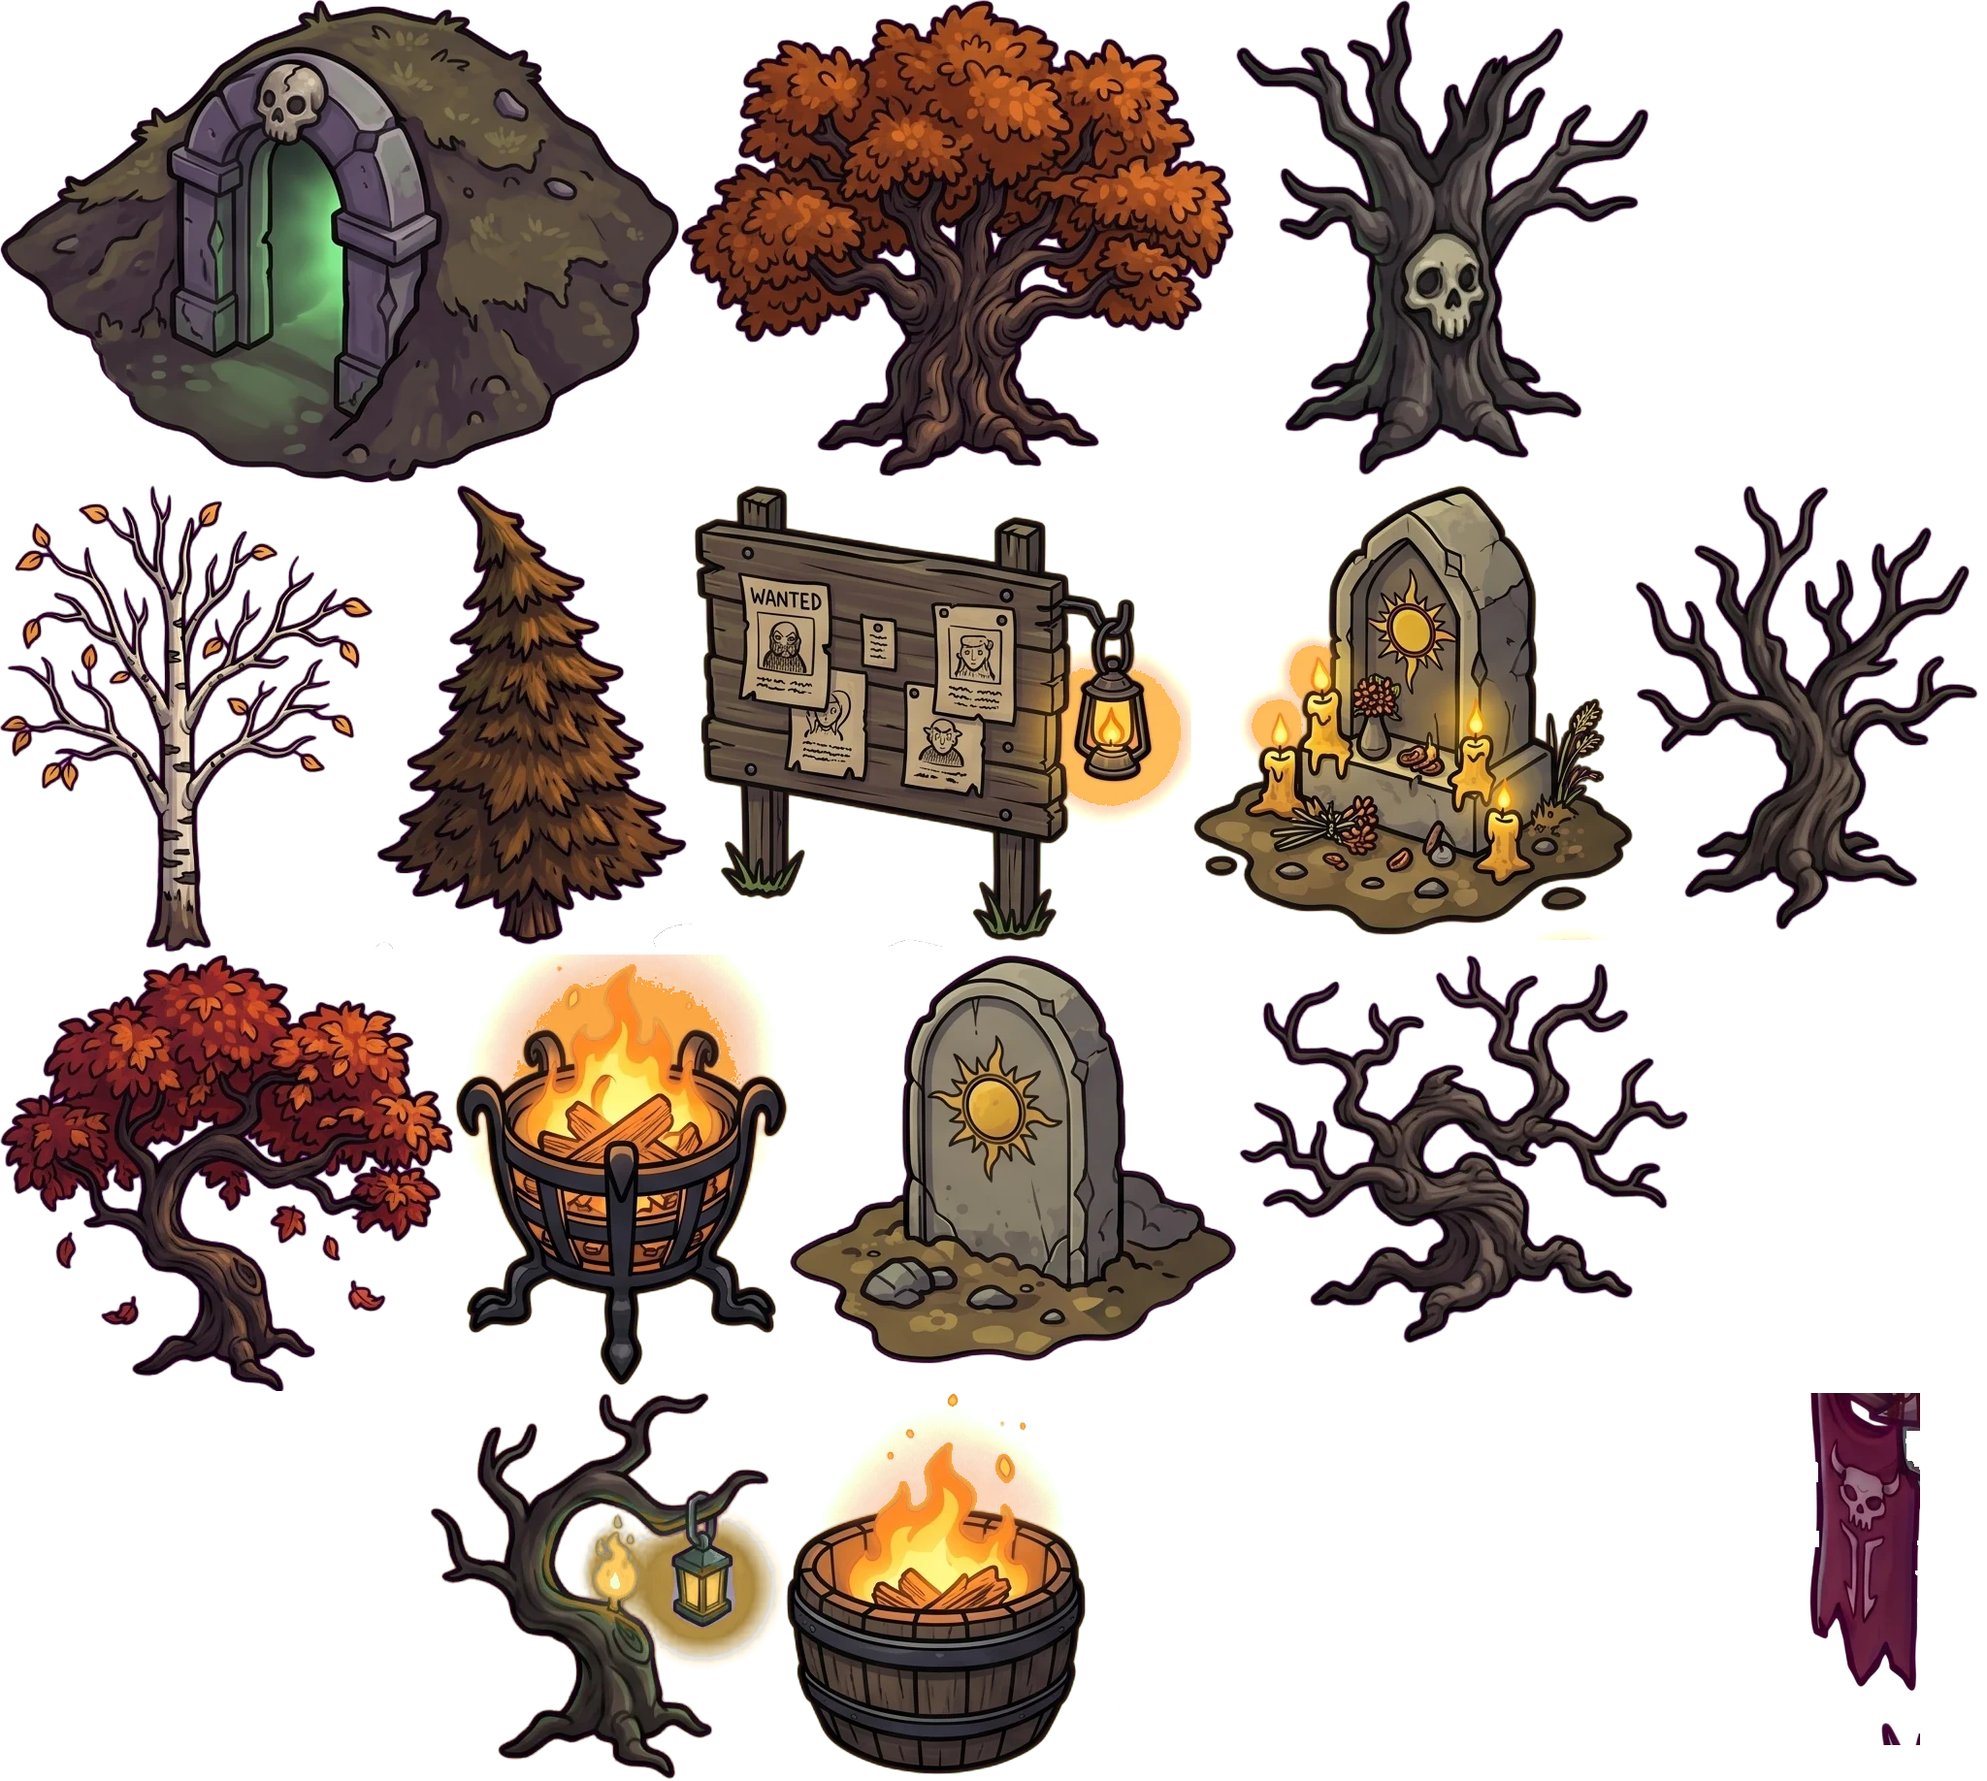
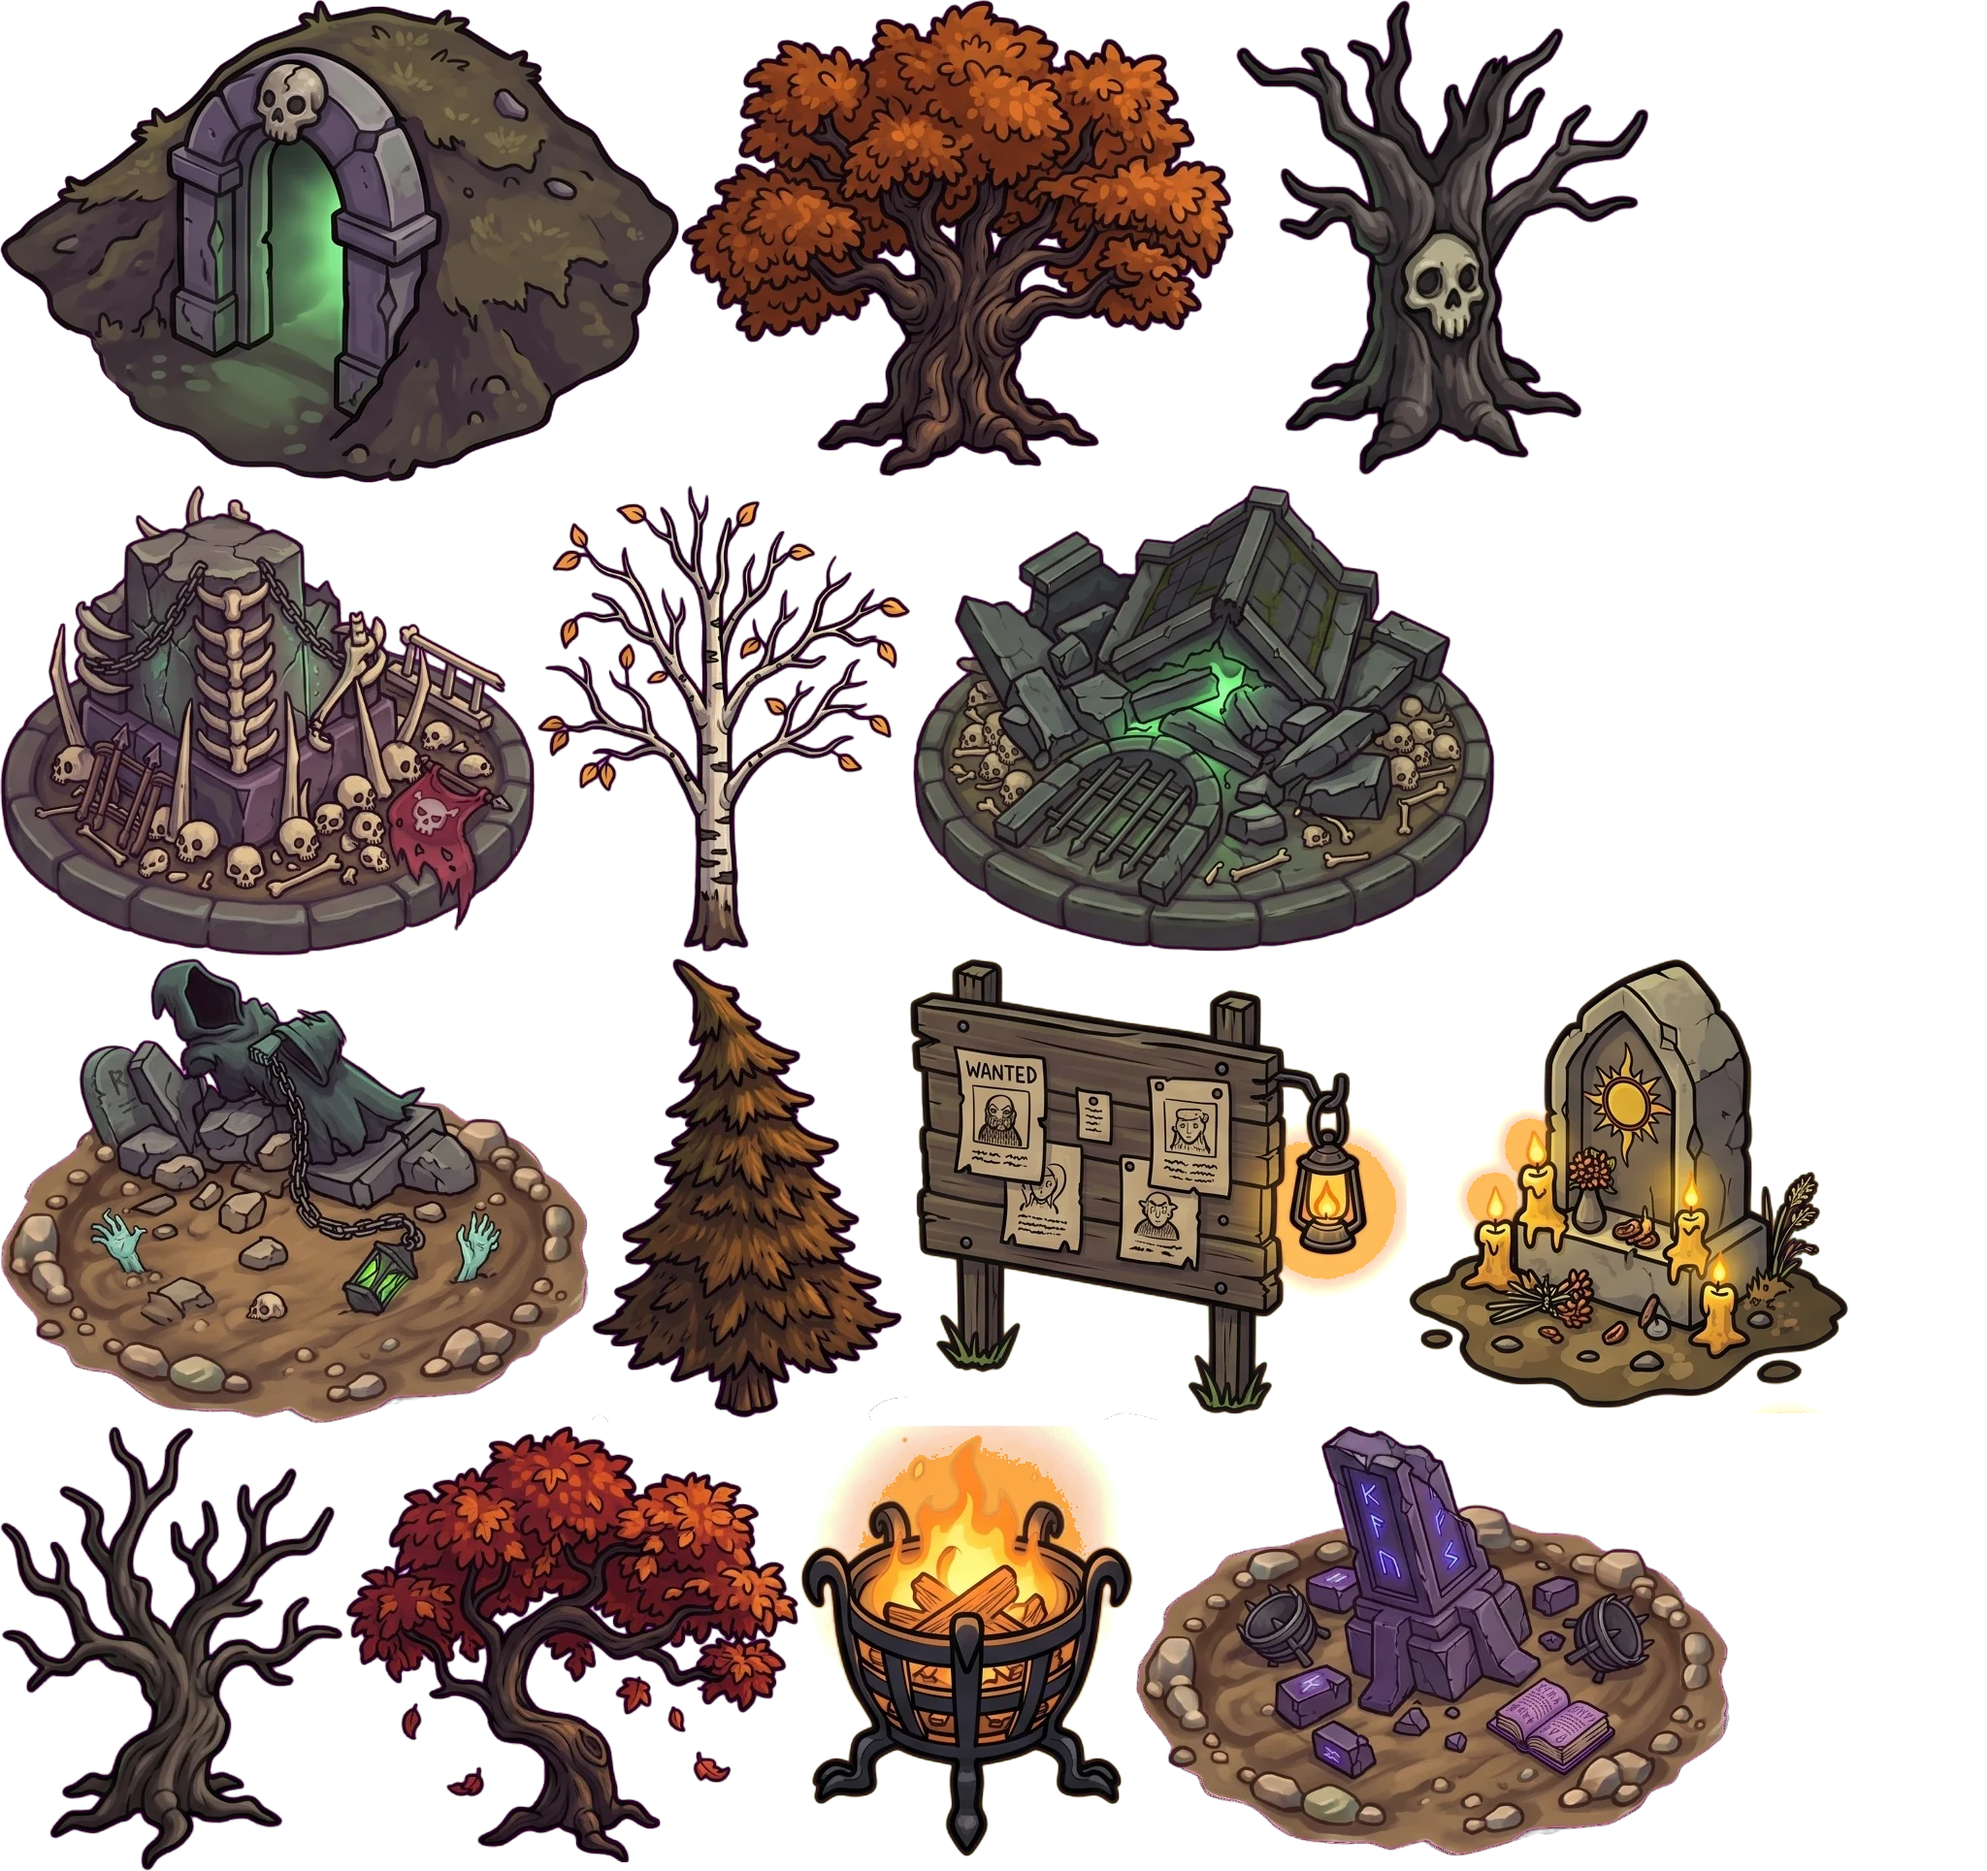
Yıkılan kulelerin molozu kendi çizimiyle (nm6_rubble_*: Kemik Kulesi, Mahzen, Ruh Feneri x2, Veba Kazanı, Lanet Kulesi); temizlenirken solup çöker (yayın 587)

diff --git a/sinir-kalesi/js/game.js b/sinir-kalesi/js/game.js
@@ -3860,8 +3860,22 @@ function clearRubble(pl) {
   if (!pl.rubble || pl.rubble.clearT > 0 || G.gold < RUBBLE.cost) return false;
   G.gold -= RUBBLE.cost; pl.rubble.clearT = RUBBLE.time; sfx('build'); return true;
 }
+// 15 Eki: kulenin kendi molozu (Gemini nm6_kule_moloz.jpg, kule türüne göre; Ruh Fenerinin iki çeşidi). Arsanın üstünü örter, temizlenirken solup çöker.
+const RUBBLE_IMG = { w: 90, anchor: 0.6 };
 function drawRubble(pl) { // moloz: taş blokları ve kemikler; temizlenirken azalır, üstünde ilerleme halkası
   const R = pl.rubble, cl = R.clearT > 0 ? R.clearT / RUBBLE.time : 1; let sd = Math.floor(R.seed * 99991) + 7;
+  const rim = spr('nm6_rubble_' + (R.type === 'mage' && R.seed < 0.5 ? 'mage2' : R.type));
+  if (rim) {
+    if (cl < 1) drawPlot(pl); // temizlenirken altından arsa görünür
+    const w = RUBBLE_IMG.w * BUILD_K, sink = 1 - cl;
+    ctx.save(); ctx.globalAlpha *= 0.15 + 0.85 * cl;
+    const hh = w * rim.height / rim.width, bot = pl.y + 2 + hh * (1 - RUBBLE_IMG.anchor) + 1;
+    ctx.beginPath(); ctx.rect(pl.x - w, bot - hh - 4, w * 2, hh + 4); ctx.clip(); // çökerken alt kenardan aşağı taşmasın
+    drawSprite(ctx, rim, pl.x, pl.y + 2 + sink * w * 0.25, w, RUBBLE_IMG.anchor);
+    ctx.restore();
+    if (R.clearT > 0) { ctx.save(); ctx.lineWidth = 3; ctx.strokeStyle = 'rgba(20,10,20,0.7)'; ctx.beginPath(); ctx.arc(pl.x, pl.y - 30, 9, 0, Math.PI * 2); ctx.stroke(); ctx.strokeStyle = '#ffd34d'; ctx.beginPath(); ctx.arc(pl.x, pl.y - 30, 9, -Math.PI / 2, -Math.PI / 2 + (1 - cl) * Math.PI * 2); ctx.stroke(); ctx.restore(); if (Math.random() < 0.3) emit(G.parts, { kind: 'dot', x: pl.x + rand(-14, 14), y: pl.y - rand(0, 8), vx: rand(-20, 20), vy: -rand(10, 40), g: 120, col: '#9a8a7a', s0: 1.4, s1: 0.5, life: 0.5 }); }
+    return;
+  }
   const rnd = () => (sd = (sd * 16807) % 2147483647) / 2147483647;
   ctx.save(); ctx.translate(pl.x, pl.y);
   ctx.fillStyle = 'rgba(0,0,0,0.3)'; ctx.beginPath(); ctx.ellipse(0, 3, 30, 12, 0, 0, Math.PI * 2); ctx.fill();
@@ -18370,6 +18384,7 @@ window.__game = {
     let white = 0; for (const k in WHITE) white += mb(WHITE[k]); let rot = 0; for (const k in ROT) rot += mb(ROT[k]);
     return { strips: Math.round(strips), other: Math.round(other), white: Math.round(white), rot: Math.round(rot), big: L.sort((a, b) => b[1] - a[1]).slice(0, n), others: n > 15 ? Object.keys(SPR).filter(k => !LAZY_RE.test(k)).map(k => [k, Math.round(mb(SPR[k]))]).sort((a, b) => b[1] - a[1]).slice(0, n) : null };
   },
+  collapse: (i) => G.plots[i].tower && collapseTower(G.plots[i].tower), // test: kuleyi yık (moloz)
   perfOff: (k, on = true) => { on ? PERF_OFF.add(k) : PERF_OFF.delete(k); return [...PERF_OFF]; }, // test: çizim katmanı kapat
   get G() { return G; }, get overlay() { return overlay; }, get screen() { return screen; }, startLevel, setSpeed: (s) => { speed = s; },
   build: (i, type) => buildTower(G.plots[i], type), upgrade: (i) => G.plots[i].tower && upgradeTower(G.plots[i].tower),

diff --git a/sinir-kalesi/index.html b/sinir-kalesi/index.html
@@ -17,7 +17,7 @@
 <canvas id="game" aria-label="Sınır Kalesi oyun alanı"></canvas>
 <script>
   // Sürüm damgası: her yayında artırılır; tarayıcı eski önbellek kopyasını kullanmaz (js ve görseller).
-  window.SURUM = '586';
+  window.SURUM = '587';
   // dil: kayıtlı seçim (yoksa Türkçe); tr/en dışındakiler için çeviri sözlüğü dil.js'ten önce yüklenir
   window.__dilYukle = (function () {
     var l = null; try { l = localStorage.getItem('sinirKalesi.lang'); } catch (e) {}

diff --git a/sinir-kalesi/yayin.html b/sinir-kalesi/yayin.html
@@ -11,7 +11,7 @@
 <canvas id="game" aria-label="Sınır Kalesi oyun alanı"></canvas>
 <script>
   // Sürüm damgası: her yayında artırılır; tarayıcı eski önbellek kopyasını kullanmaz (js ve görseller).
-  window.SURUM = '586';
+  window.SURUM = '587';
   // dil: kayıtlı seçim (yoksa Türkçe); tr/en dışındakiler için çeviri sözlüğü dil.js'ten önce yüklenir
   window.__dilYukle = (function () {
     var l = null; try { l = localStorage.getItem('sinirKalesi.lang'); } catch (e) {}

diff --git a/varliklar/nm_isle.py b/varliklar/nm_isle.py
@@ -74,6 +74,7 @@ SHEETS = [
     ('nm4_engizisyon_dekor.jpg', ['nm4_pyre', 'nm4_banner', 'nm4_brazier', 'nm4_firebarrel', 'nm4_suntomb', 'nm4_shrine', 'nm4_board', 'nm4_pillory', 'nm4_wagon', 'nm4_barrels', 'nm4_cross'], 'decor'),  # 11 Eki: 2. sefer (Cadı Avı) engizisyon dekorları; sancak bezi oyunda dalgalanır
     ('nm5_sefer2_doga.jpg', ['nm5_oak', 'nm5_maple', 'nm5_fir', 'nm5_birch', 'nm5_stump', 'nm5_logs', 'nm5_hay', 'nm5_scarecrow', 'nm5_thorn',
                              'nm5_rock', 'nm5_shrub', 'nm5_hollow', 'nm5_wheat'], 'decor'),  # 15 Eki: 2. sefer sonbahar doğası (ağaç, kütük, odun, saman, korkuluk, kaya, çalı, buğday)
+    ('nm6_kule_moloz.jpg', ['nm6_rubble_archer', 'nm6_rubble_barracks', 'nm6_rubble_mage2', 'nm6_rubble_mage', 'nm6_rubble_artillery', 'nm6_rubble_altar'], 'decor'),  # 15 Eki: yıkılan kulelerin molozu (Ruh Feneri iki çeşit)
     ('nm_boss_E.jpg', ['enemy_severus3'], 'unit'),  # 12 Eki: Lanetli Severus (2. sefer finalinin 3. evresi)
     ('nm_boss_D.jpg', ['enemy_hubertus', 'enemy_agnes', 'enemy_lucia', 'enemy_godfrey'], 'unitgrid'),  # 12 Eki: 2. sefer komutanları (Tazı Ustası, Kırbaç Rahibesi, Şeytan Kovucu, Tapınak Komutanı)
     ('nm_boss_C.jpg', ['enemy_gloriosus1', 'enemy_gloriosus2', 'enemy_gloriosus3'], 'unit'),  # 11 Eki: Gloriosus 3 evre (aslanlı altın araba, yayan, Güneş Formu)
@@ -93,11 +94,12 @@ BOXES = {
     'nm4_engizisyon_dekor.jpg': [(41, 41, 777, 727), (826, 17, 1153, 773), (1273, 172, 1637, 630), (1761, 41, 2078, 457), (2208, 55, 2690, 484), (1640, 512, 2181, 993), (2208, 498, 2752, 980), (76, 853, 605, 1417), (592, 826, 1428, 1536), (1507, 980, 2208, 1493), (2250, 966, 2690, 1520)],  # 11 nesne (2752x1536)
     'nm5_sefer2_doga.jpg': [(40, 15, 610, 505), (655, 25, 1135, 475), (1185, 15, 1510, 492), (1560, 15, 1955, 497), (80, 515, 390, 742), (470, 535, 925, 768),
                             (1005, 488, 1350, 758), (1368, 468, 1668, 798), (1688, 538, 1948, 752), (55, 798, 442, 1102), (538, 808, 872, 1098), (932, 802, 1488, 1098), (1615, 782, 1952, 1102)],
+    'nm6_kule_moloz.jpg': [(40, 75, 610, 572), (675, 75, 1290, 568), (1335, 85, 1965, 562), (35, 610, 668, 1102), (695, 625, 1295, 1108), (1335, 595, 1965, 1102)],
     'nm_boss_D.jpg': [(0, 0, 1036, 1010), (1036, 0, 2048, 1010), (0, 1010, 1000, 2048), (1000, 1010, 2048, 2048)],  # 2x2 (2048 kare)
 }
 # meta (dünya boyu) çarpanı: 2x çözünürlüklü sayfa, diğer dekor sayfalarıyla aynı ölçekte (ruinK) dursun
 META_K = {'nm4_engizisyon_dekor.jpg': 0.5}
-BOX_EDGE_DROP = {'nm5_sefer2_doga.jpg', 'nm_boss_D.jpg', 'nm2_dekor_A.jpg', 'nm3_orman_dekor.jpg', 'nm4_engizisyon_dekor.jpg'}
+BOX_EDGE_DROP = {'nm6_kule_moloz.jpg', 'nm5_sefer2_doga.jpg', 'nm_boss_D.jpg', 'nm2_dekor_A.jpg', 'nm3_orman_dekor.jpg', 'nm4_engizisyon_dekor.jpg'}
 # renk değiştirme: görselin üstten şu oranlık kısmında yeşil/mor parlak tonlar verilen renk tonuna (derece) döner
 # (10 Eki: Caner hayalet okçuları kırmızı istedi)
 HUE_TOP = {}  # (eski Hayalet Okçular kulesindeki okçuların rengi; yeni kulede okçular ayrı çiziliyor)
